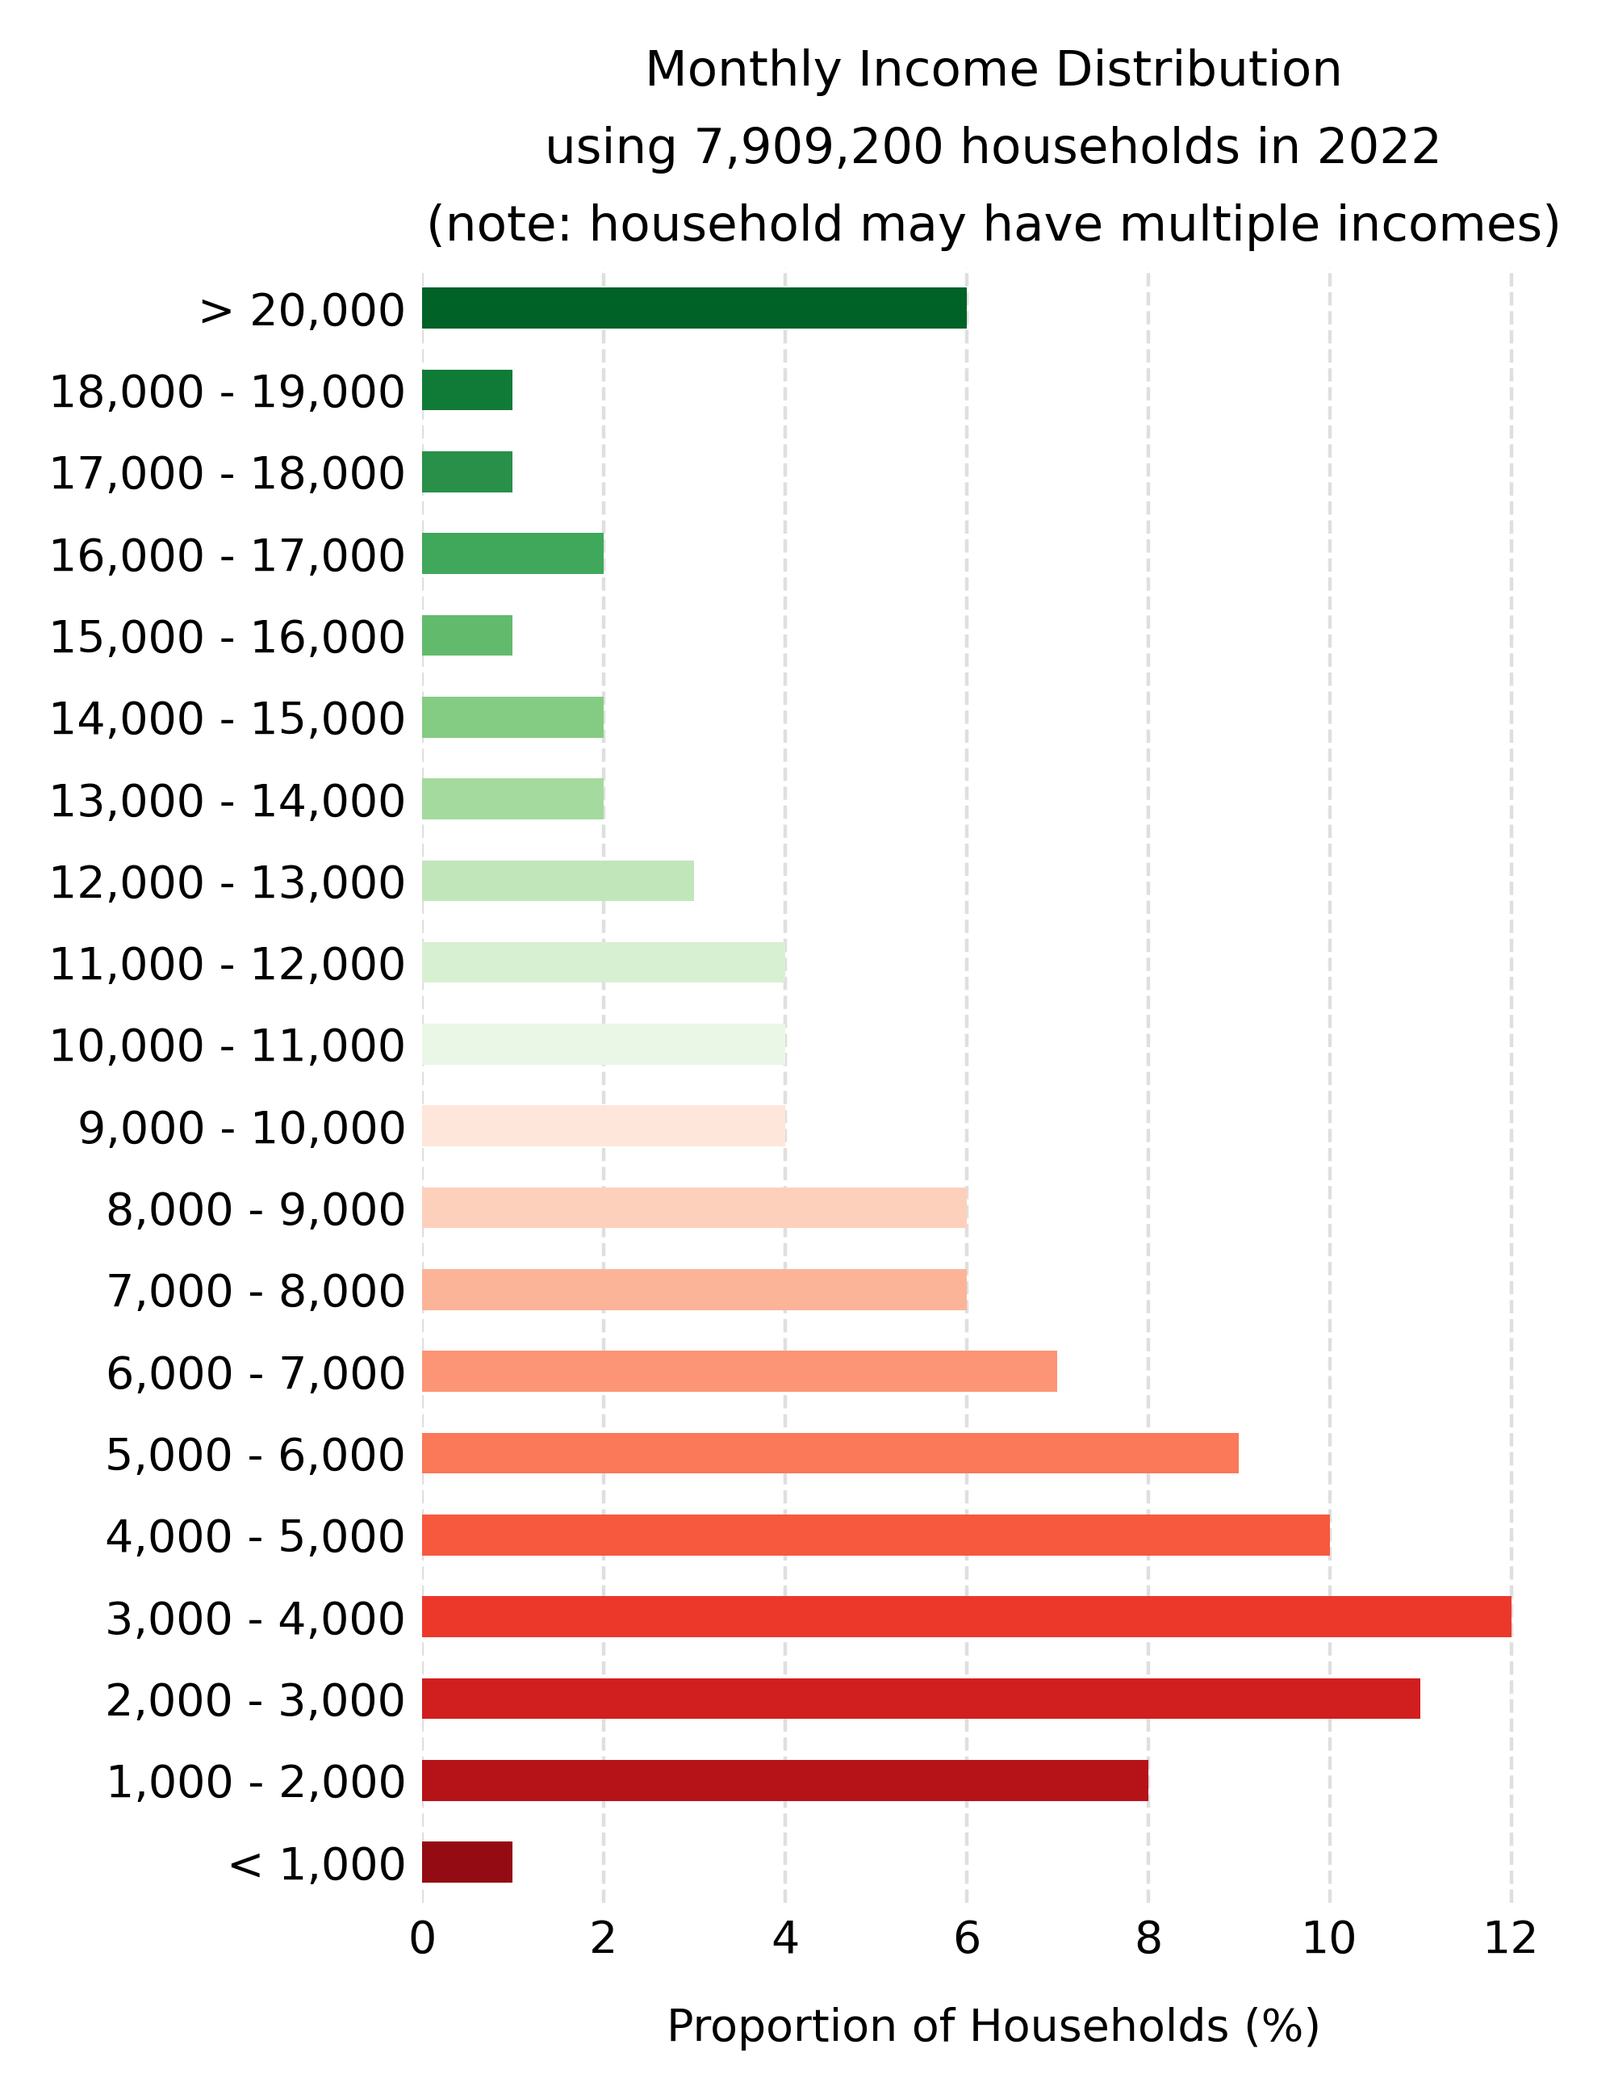
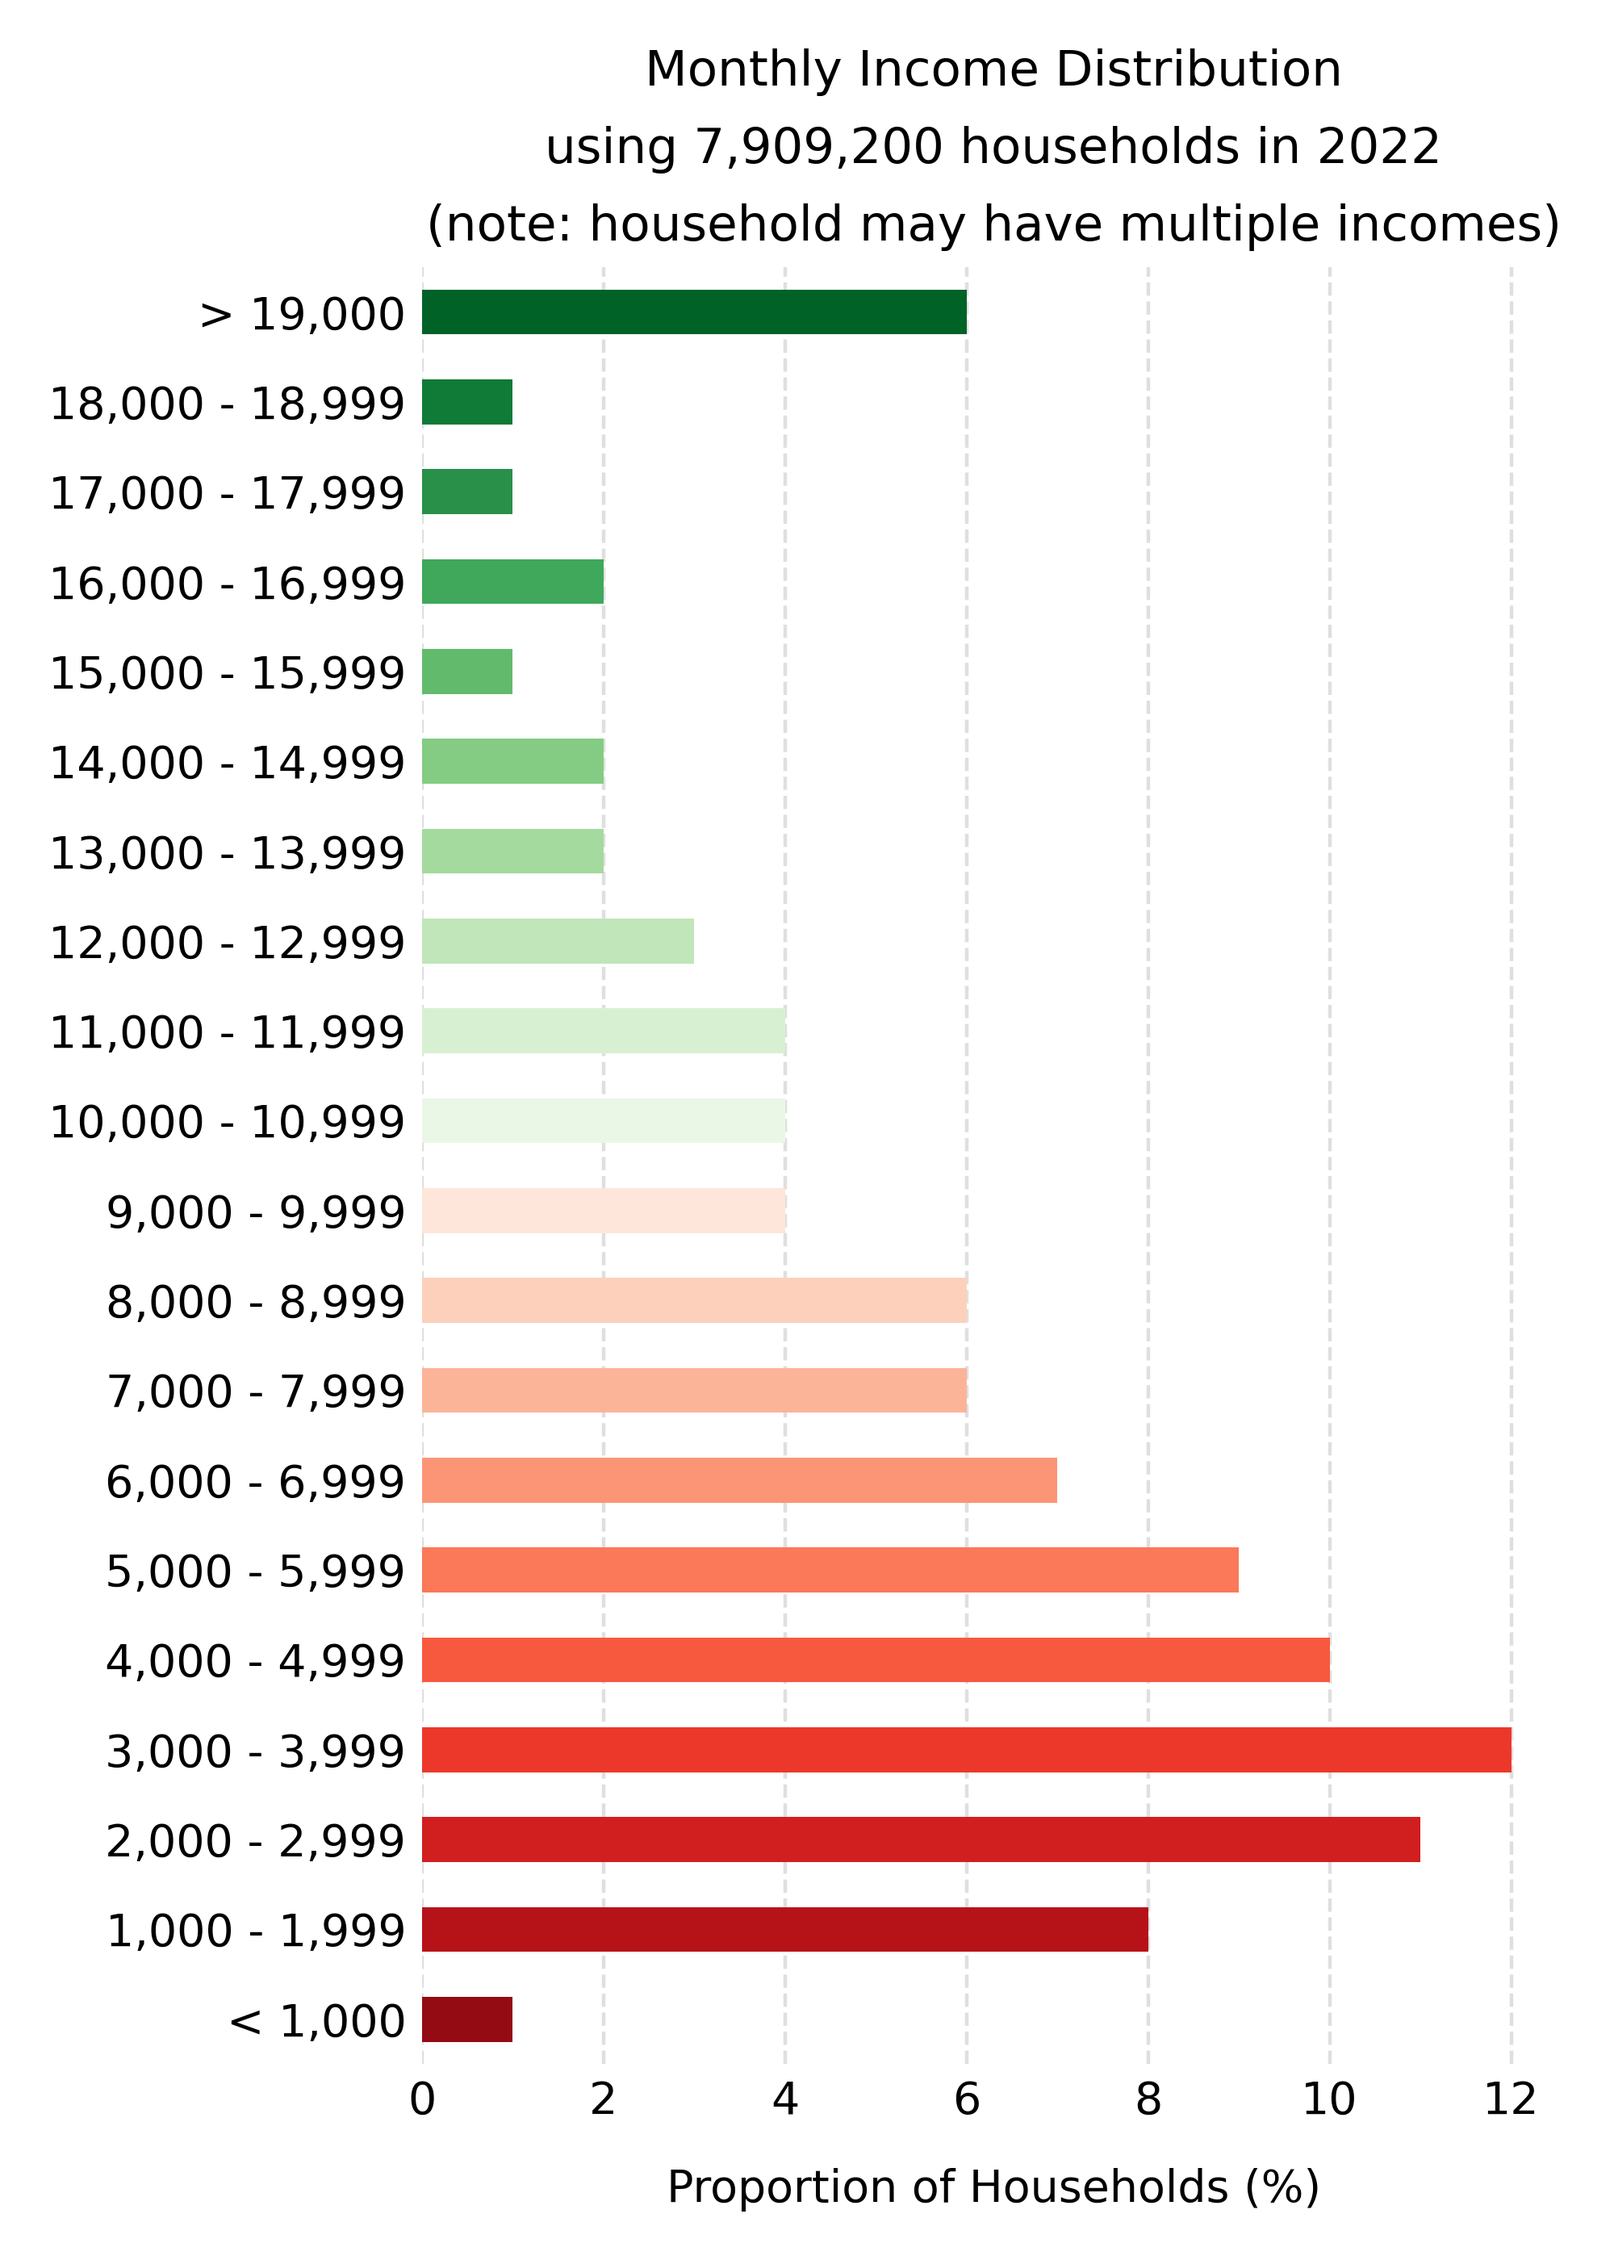
Amend typo

diff --git a/2024-05-01_income_distributions/script.py b/2024-05-01_income_distributions/script.py
@@ -29,7 +29,7 @@ def plot_distribution(
     plt.rcParams.update({'font.size': 10,
                         'font.family': 'sans-serif',
                         'grid.linestyle': 'dashed'})
-    plt.rcParams["figure.figsize"] = [5,6.5]
+    plt.rcParams["figure.figsize"] = [5,7]
     plt.rcParams["figure.autolayout"] = True
     fig, ax = plt.subplots()
 
@@ -76,7 +76,7 @@ if __name__ == '__main__':
     df.loc[df.income > 20,'income'] = 20
     df = df.groupby('income').sum()
     df['n'] = df['n']/df['n'].sum() * 100
-    df.index = ['< 1,000'] + [f'{x*1e3:,.0f} - {(x+1)*1e3:,.0f}' for x in range(1,len(df)-1)] + ['> 20,000']
+    df.index = ['< 1,000'] + [f'{x*1e3:,.0f} - {(x+1)*1e3-1:,.0f}' for x in range(1,len(df)-1)] + ['> 19,000']
 
     plot_distribution(df=df,
                     TITLE_SCOPE = 'households in 2022', N_TOTAL=HOUSEHOLDS,
@@ -95,7 +95,7 @@ if __name__ == '__main__':
     df.loc[df.value > 15,'value'] = 15
     df = df.groupby('value').sum()
     df['n'] = df['n']/df['n'].sum() * 100
-    df.index = ['< 1,000'] + [f'{x*1e3:,.0f} - {(x+1)*1e3:,.0f}' for x in range(1,len(df)-1)] + ['> 15,000']
+    df.index = ['< 1,000'] + [f'{x*1e3:,.0f} - {(x+1)*1e3-1:,.0f}' for x in range(1,len(df)-1)] + ['> 15,000']
 
     plot_distribution(df=df,
                     COLOUR_UP = 'Blues',
